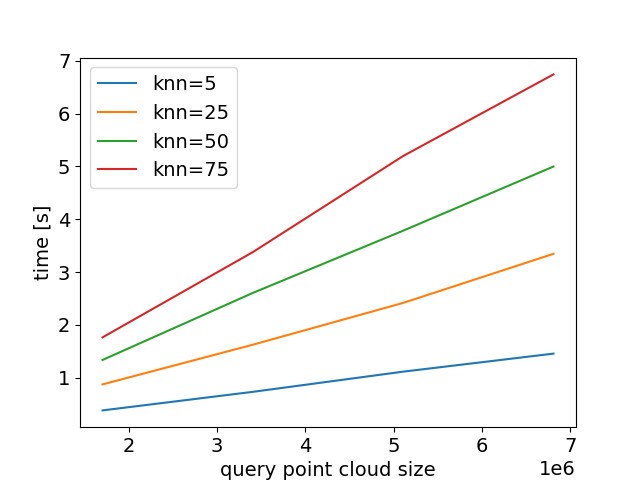
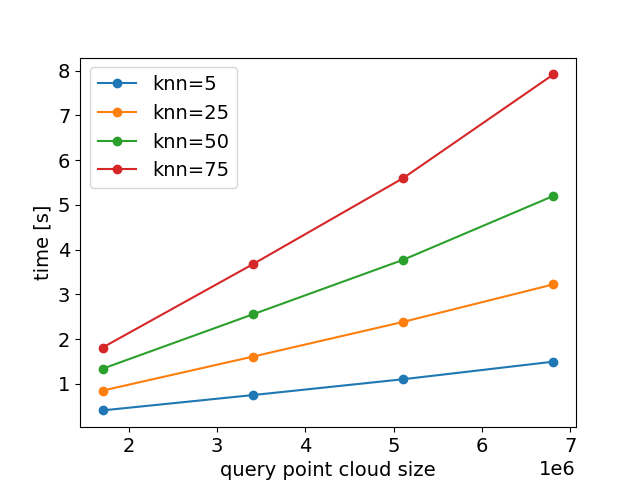
add marker

diff --git a/benchmark/benchmark-queryscalable.py b/benchmark/benchmark-queryscalable.py
@@ -68,7 +68,7 @@ def evaluate_dataset_knn(dataset, knn):
     #for iteration in range(20):
     for s in tqdm(slices):
         x.drop_cloud(); # drop the cloud
-        x.add (points[s,:]) # add points
+        x.add(points[s,:]) # add points
         start = time.time()
         distancemap = x.knn_radius("knn", knn)
         plot = plot+[[s.stop,time.time()-start]]
@@ -85,7 +85,7 @@ if __name__=="__main__":
     plt.rcParams.update({'font.size': 14})
     plot_data = [(knn,evaluate_dataset_knn(sys.argv[1],knn)) for knn in [5,25,50,75]]
     for knn, data in plot_data:
-        plt.plot(data[:,0],data[:,1],label="knn=%d" % (knn))
+        plt.plot(data[:,0],data[:,1],label="knn=%d" % (knn), marker='o')
     plt.legend()
     plt.xlabel("query point cloud size")
     plt.ylabel("time [s]")

diff --git a/benchmark/benchmark-eigenfeatures.py b/benchmark/benchmark-eigenfeatures.py
@@ -92,7 +92,7 @@ if __name__=="__main__":
     plt.rcParams.update({'font.size': 14})
     plot_data = [(knn,evaluate_dataset_knn(sys.argv[1],knn)) for knn in [5,25,50,75]]
     for knn, data in plot_data:
-        plt.plot(data[:,0],data[:,1],label="knn=%d" % (knn))
+        plt.plot(data[:,0],data[:,1],label="knn=%d" % (knn), marker='o')
     plt.legend()
     plt.xlabel("query point cloud size")
     plt.ylabel("time [s]")
